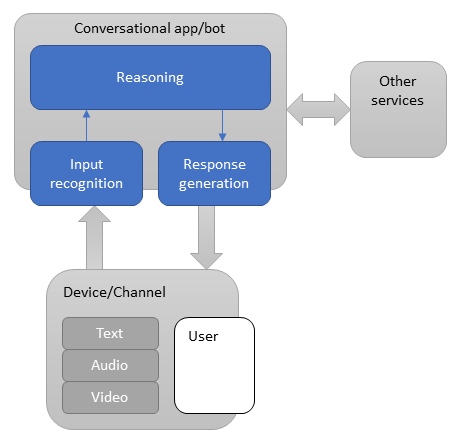
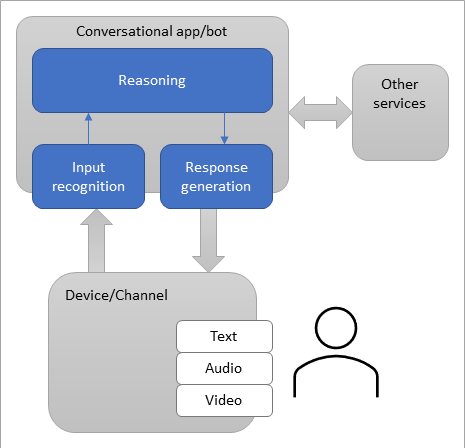
Small images changes and edits

diff --git a/articles/bot-service-overview-introduction.md b/articles/bot-service-overview-introduction.md
@@ -20,9 +20,11 @@ ms.date: 11/15/2019
 
 The Bot Framework, along with the Azure Bot Service, provides tools to build, test, deploy, and manage intelligent bots, all in one place. The Bot Framework includes a modular and extensible SDK for building bots, as well as tools, templates, and related AI services. With this framework, developers can create bots that use speech, understand natural language, handle questions and answers, and more.
 
-<!-- [Azure] Bot Service - The service that accelerates the process of developing a bot. It provisions a web host with one of five bot templates that can be modified in an integrated environment. -->
-<!-- bot service - An instance created by the user using Azure Bot Service. -->
-<!-- [Microsoft] Bot Framework - The comprehensive offering to build and deploy high quality bots for users to enjoy wherever they are talking. Users can start conversations with your bot from any channel that you’ve configured your bot to work on, such as SMS, Skype, Slack, Facebook, and other popular services. -->
+<!--
+    - [Azure] Bot Service - The service that accelerates the process of developing a bot. It provisions a web host with one of five bot templates that can be modified in an integrated environment.
+    - bot service - An instance created by the user using Azure Bot Service.
+    - [Microsoft] Bot Framework - The comprehensive offering to build and deploy high quality bots for users to enjoy wherever they are talking. Users can start conversations with your bot from any channel that you’ve configured your bot to work on, such as SMS, Skype, Slack, Facebook, and other popular services.
+-->
 
 ## What is a bot?
 
@@ -30,6 +32,8 @@ Bots provide an experience that feels less like using a computer and more like d
 
 > [!div class="mx-imgBorder"]
 > ![A remote bot interacts with a user on a device via text, speech, images, or video](./media/architecture/what-is-a-bot.png)
+
+<!-- Tie the wording of the boxes to the content of this article. -->
 
 Bots are a lot like modern web applications, living on the internet and use APIs to send and receive messages. What's in a bot varies widely depending on what kind of bot it is. Modern bot software relies on a stack of technology and tools to deliver increasingly complex experiences on a wide variety of platforms. However, a simple bot could just receive a message and echo it back to the user with very little code involved.
 

diff --git a/articles/v4sdk/bot-builder-create-a-bot-project.md b/articles/v4sdk/bot-builder-create-a-bot-project.md
@@ -1,6 +1,6 @@
 ---
-title: How to create a basic bot project - Bot Service
-description: Learn how to create an echo bot project in the Bot Framework SDK. Learn about common aspects of bot code.
+title: How bot projects are structured - Bot Service
+description: Learn about how bot projects are structured in the Bot Framework SDK. Learn about common aspects of bot code.
 author: JonathanFingold
 ms.author: v-jofin
 manager: kamrani
@@ -10,9 +10,12 @@ ms.date: 09/24/2020
 monikerRange: 'azure-bot-service-4.0'
 ---
 
-# How to create a basic bot project
+# About the structure of a bot project
 
 [!INCLUDE[applies-to](../includes/applies-to.md)]
+
+The Bot Framework templates and samples are written for ASP.NET (C#), Restify (JavaScript), and aiohttp (Python).
+However, the web service features are not part of the Bot Framework SDK, but part of the web framework you choose to use.
 
 All bot applications share some common features.
 This article describes these features:
@@ -23,9 +26,6 @@ This article describes these features:
 | Messaging endpoint | The web app needs to implement a messaging endpoint on which to receive activities and forward activities to the bot adapter. |
 | Bot adapter | The adapter receives activities from the messaging endpoint, forwards them to the bot's turn handler, and catches any errors or exceptions the bot's logic doesn't catch. |
 | Bot object | The bot object handles the bot's reasoning or logic for the turn. |
-
-The Bot Framework templates and samples are written for ASP.NET (C#), Restify (JavaScript), and aiohttp (Python).
-However, the web service features are part of the web framework you choose to use and not part of the Bot Framework SDK.
 
 You can create an echo bot from the templates, as described in the quickstarts (for [**C#**](../dotnet/bot-builder-dotnet-sdk-quickstart.md), [**JavaScript**](../javascript/bot-builder-javascript-quickstart.md), or [**Python**](../python/bot-builder-python-quickstart.md)), or you can copy an echo bot project from the [Microsoft/BotBuilder-Samples](https://github.com/Microsoft/BotBuilder-Samples) repository.
 

diff --git a/articles/v4sdk/bot-builder-basics.md b/articles/v4sdk/bot-builder-basics.md
@@ -20,6 +20,8 @@ The Bot Framework Service, which is a component of the Azure Bot Service, sends 
 
 ![activity diagram](./media/bot-builder-activity.png)
 
+<!-- Tie the wording of the boxes to the content of this article. -->
+
 Two activity types illustrated here are: *conversation update* and *message*.
 
 The Bot Framework Service may send a conversation update when a party joins the conversation. For example, on starting a conversation with the Bot Framework Emulator, you will see two conversation update activities (one for the user joining the conversation and one for the bot joining). To distinguish these conversation update activities, check who is included in the *members added* property of the activity.
